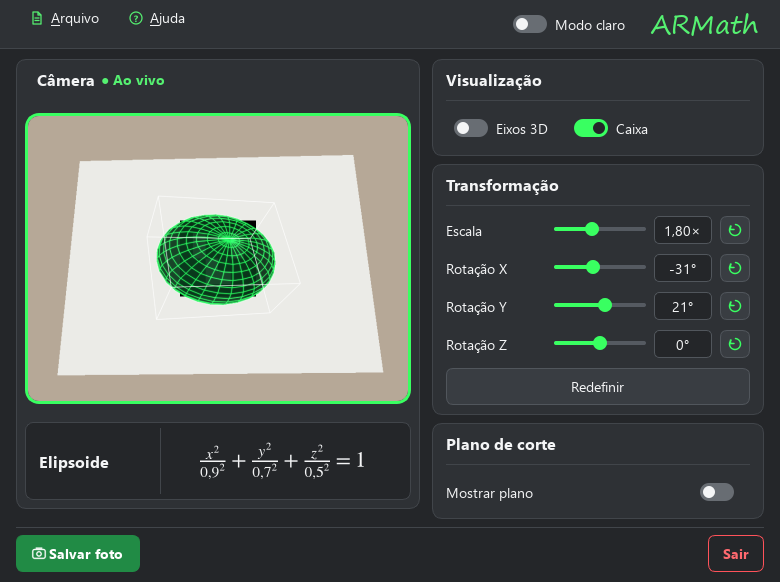
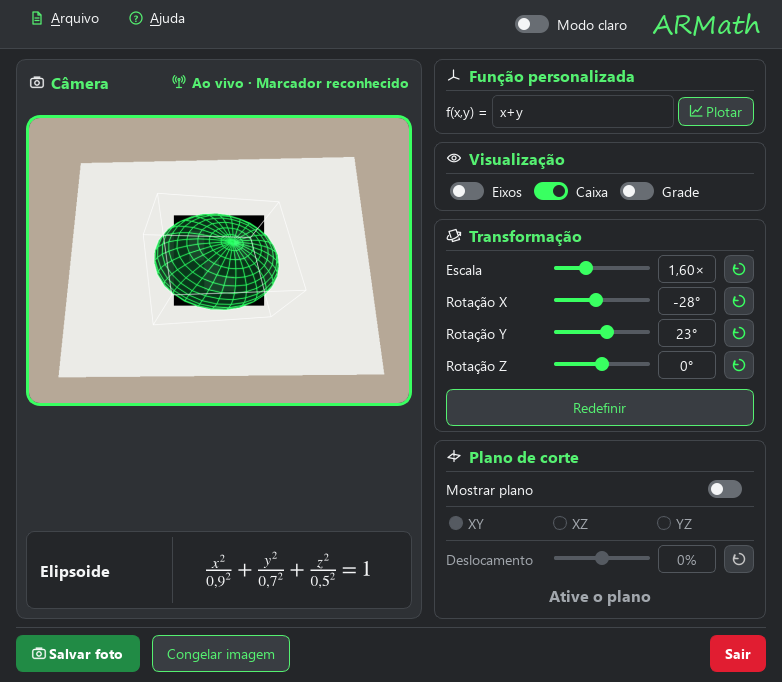
Documenta os recursos atuais do ARMath 2.0

diff --git a/ARMAth_2.0/README.md b/ARMAth_2.0/README.md
@@ -1,80 +1,107 @@
 # ARMath 2.0
 
-O ARMath 2.0 usa marcadores ArUco para projetar superfícies matemáticas sobre o vídeo da câmera. Os nove marcadores da versão 1.0 também funcionam nesta edição.
+O **ARMath** é um aplicativo de realidade aumentada para o ensino de **Cálculo III**, criado pelo Prof. Izaias Neri. A webcam reconhece um marcador ArUco e projeta uma superfície matemática sobre o vídeo. O nome e a equação da superfície aparecem abaixo da prévia.
 
-## O que mudou na versão 2.0
+## Como começar
 
-A câmera e a equação ficam à esquerda. Na coluna lateral, o painel **Visualização** reúne **Eixos 3D** e **Caixa**. O painel **Transformação** reúne escala, rotação e redefinição dos ajustes. Em **Plano de corte**, é possível deslocar um plano vermelho com malha amarela e observar a interseção em branco.
-
-O seletor de tema fica ao lado da marca **ARMath**, no canto superior direito. O menu **Ajuda** reúne o guia rápido, a pasta de marcadores, o [manual em PDF](docs/Manual_ARMath.pdf), o GitHub do projeto e a janela **Sobre o ARMath**.
-
-## Telas do aplicativo
-
-As capturas mostram a interface do ARMath 2.0 com quadros simulados da câmera.
-
-**Painel Visualização com a caixa ativada**
-
-![Elipsoide delimitado por uma caixa de arestas brancas no ARMath 2.0](docs/imagens/armath-2-caixa.png)
-
-**Modo escuro com plano de corte e interseção em branco**
-
-![ARMath 2.0 no modo escuro, com a sela cortada por um plano vermelho e os controles à direita](docs/imagens/armath-2-escuro.png)
-
-**Modo claro com os eixos 3D ativados**
-
-![ARMath 2.0 no modo claro, com um toro rotacionado e seus eixos 3D](docs/imagens/armath-2-claro.png)
-
-**Janela Sobre**
-
-![Janela Sobre do ARMath 2.0 com o logotipo verde, a descrição e os créditos](docs/imagens/armath-2-sobre.png)
-
-## Menus
-
-### Arquivo
-
-![Menu Arquivo aberto no ARMath 2.0](docs/imagens/armath-2-menu-arquivo.png)
-
-| Item | O que faz |
-| --- | --- |
-| **Salvar foto** (`Ctrl+S`) | Salva em PNG o quadro atual da câmera com a visualização da superfície. |
-| **Eixos 3D** (`Ctrl+E`) | Mostra ou oculta os eixos X, Y e Z. É o mesmo controle disponível no painel **Visualização**. |
-| **Reiniciar câmera** | Tenta reconectar a webcam. A opção aparece quando a câmera está indisponível. |
-| **Sair** (`Ctrl+Q`) | Fecha o aplicativo. |
-
-### Ajuda
-
-![Menu Ajuda aberto no ARMath 2.0](docs/imagens/armath-2-menu-ajuda.png)
-
-| Item | O que faz |
-| --- | --- |
-| **Como começar** | Mostra três passos para conectar a webcam, posicionar um marcador e explorar a primeira superfície. |
-| **Abrir pasta de marcadores** | Abre a pasta com os PNGs dos marcadores ArUco, que podem ser impressos ou exibidos em outro dispositivo. |
-| **Manual do usuário** | Abre o [manual em PDF](docs/Manual_ARMath.pdf) com instruções e marcadores para imprimir. |
-| **GitHub do projeto** | Abre a [página do ARMath 2.0 no GitHub](https://github.com/izaiasneri/ARmath/tree/main/ARMAth_2.0) no navegador. |
-| **Sobre o ARMath** | Exibe a versão, a descrição e os créditos do aplicativo. |
-
-## Como executar
-
-Na pasta `ARMAth_2.0`, instale as dependências, caso ainda não estejam instaladas, e execute o aplicativo.
+Na pasta `ARMAth_2.0`, instale as dependências e abra o aplicativo:
 
 ```powershell
 python -m pip install -r requirements.txt
 python armath.py
 ```
 
-Os PNGs para imprimir estão na pasta `marcadores`. Para gerar mais cópias, execute `python armath.py --gerar-marcadores marcadores`.
+Mostre um [marcador ArUco](marcadores) inteiro à webcam, com a margem branca visível. Você pode imprimir o PNG ou exibi-lo em outro dispositivo. Os marcadores **0 a 8** da versão 1.0 continuam funcionando. O [marcador 9](marcadores/marcador_9.png) é reservado para a função personalizada.
 
-## Controles
+Para gerar os arquivos PNG novamente, execute `python armath.py --gerar-marcadores marcadores`.
 
-- **Escala** ajusta o tamanho da superfície de **1× a 3×**, com valor inicial de **1×**.
-- **Rotação X, Y e Z** gira a malha em torno do centro do marcador. Cada controle vai de **−180° a 180°**.
-- **Eixos 3D** mostra os eixos X, Y e Z, que giram junto com a superfície.
-- **Caixa** mostra as arestas brancas de uma caixa retangular que delimita a superfície. A caixa acompanha a escala e a rotação da figura.
-- **Redefinir** volta à escala **1×** e às três rotações em **0°**.
-- O **ícone de seta circular** ao lado de cada valor restaura apenas aquele controle.
-- **Mostrar plano** exibe um plano vermelho preenchido com malha amarela. Escolha um único plano entre **XY**, **XZ** e **YZ**. O contorno branco destaca a interseção quando houver corte.
-- O **deslocamento do plano** começa na origem, no centro do deslizador. As duas pontas do controle levam o plano ao menor e ao maior valor da superfície no eixo perpendicular ao corte. O alcance acompanha a escala da figura. Use a seta circular para voltar à origem.
-- **Modo claro** ativa o tema claro. Com ele ativo, o seletor passa a exibir **Modo escuro**. O aplicativo abre no tema escuro.
-- **Salvar foto** captura o quadro com a superfície no tamanho e na orientação atuais.
+## Telas e funcionalidades
 
-A malha 3D aparece em verde neon sobre o vídeo. O nome e a equação são exibidos abaixo da prévia.
+As imagens abaixo são capturas da interface do aplicativo com quadros simulados da câmera.
+
+### Função personalizada
+
+No painel **Função personalizada**, escreva a expressão depois de **f(x,y) =** e clique em **Plotar** ou pressione **Enter**. Aponte a câmera para o marcador 9 para ver a superfície e a fórmula renderizada abaixo da imagem. A função inicial é `x+y`. Cada expressão válida substitui a anterior durante a sessão. Se houver um erro, a última função válida permanece.
+
+Exemplos: `exp(x+y)`, `x^2-y^2` e `sqrt(x^2+y^2)`. Use `*` para multiplicar. O aplicativo avalia a função em uma malha no domínio ([-1,1] × [-1,1]).
+
+![Função exponencial no marcador 9, com a equação formatada abaixo da câmera](docs/imagens/armath-2-funcao-personalizada.png)
+
+### Visualização e transformação
+
+| Controle | Como funciona |
+| --- | --- |
+| **Eixos** | Mostra os eixos coloridos com as letras X, Y e Z em branco. |
+| **Caixa** | Desenha as arestas brancas da caixa que delimita a superfície. |
+| **Grade** | Mostra três planos de referência translúcidos: XY amarelo, XZ azul e YZ vermelho. As linhas são brancas e tracejadas, e os números indicam coordenadas da superfície. |
+| **Escala** | Ajusta a ampliação de **1× a 3×**. |
+| **Rotação X, Y e Z** | Gira a superfície ao redor do marcador, de **−180° a 180°** em cada eixo. Os elementos de visualização acompanham a rotação. |
+| **Redefinir** | Restaura a escala para **1×** e as rotações para **0°**. As setas circulares dos seletores redefinem cada valor individualmente. |
+
+**Grade e eixos ativados**
+
+![Elipsoide com eixos rotulados e três planos de grade coloridos](docs/imagens/armath-2-grade.png)
+
+**Caixa ativada**
+
+![Elipsoide dentro da caixa de arestas brancas](docs/imagens/armath-2-caixa.png)
+
+### Plano de corte
+
+Ative **Mostrar plano** e selecione **XY**, **XZ** ou **YZ**. As opções e o controle de **Deslocamento** ficam visíveis mesmo quando o plano está desligado. Quando ativo, o painel exibe a coordenada do corte no eixo perpendicular ao plano. A curva de interseção aparece em branco quando há corte.
+
+![Corte da sela com o plano XY e a coordenada Z indicada no painel](docs/imagens/armath-2-escuro.png)
+
+### Congelar imagem e salvar foto
+
+**Congelar imagem** conserva o quadro atual para que você possa girar a superfície, ajustar a escala e explorar os cortes sem segurar o marcador na frente da webcam. Clique em **Retomar vídeo** para voltar à transmissão. **Salvar foto** exporta em PNG o quadro exibido com a sobreposição.
+
+![Imagem congelada com plano de corte visível e botão Retomar vídeo](docs/imagens/armath-2-congelado.png)
+
+### Estado da câmera e recuperação
+
+| Estado | O que aparece |
+| --- | --- |
+| **Conectando** | A câmera está em inicialização. [Ver captura](docs/imagens/armath-2-conectando.png). |
+| **Ao vivo · Aguardando marcador** | A transmissão está ativa. Mostre um marcador com os quatro cantos visíveis. [Ver captura](docs/imagens/armath-2-aguardando-marcador.png). |
+| **Ao vivo · Marcador reconhecido** | A superfície e a equação estão disponíveis para exploração. |
+| **Imagem congelada** | O quadro exibido fica fixo, com os ajustes de visualização disponíveis. |
+| **Indisponível** | Verifique a webcam e as permissões do Windows. Use o botão amarelo **Reiniciar câmera** para tentar novamente. |
+
+![Câmera indisponível com botão amarelo Reiniciar câmera](docs/imagens/armath-2-camera-indisponivel.png)
+
+### Temas claro e escuro
+
+O seletor ao lado da marca ARMath indica o tema que será ativado. O aplicativo abre no tema escuro. Ao mudar para o tema claro, o seletor passa a mostrar **Modo escuro**.
+
+![Tema claro com o toro e seus eixos](docs/imagens/armath-2-claro.png)
+
+## Menus
+
+### Arquivo
+
+![Menu Arquivo aberto com a opção Selecionar câmera](docs/imagens/armath-2-menu-arquivo.png)
+
+| Item | O que faz |
+| --- | --- |
+| **Salvar foto** (`Ctrl+S`) | Salva o quadro exibido em PNG. |
+| **Eixos 3D** (`Ctrl+E`) | Alterna o controle **Eixos** do painel **Visualização**. |
+| **Reiniciar câmera** | Tenta reconectar a webcam. A opção aparece quando a câmera está indisponível. |
+| **Selecionar câmera** | Permite escolher outra webcam pelo índice. **0** é o índice padrão. |
+| **Sair** (`Ctrl+Q`) | Fecha o aplicativo. |
+
+![Janela para escolher o índice da câmera](docs/imagens/armath-2-selecionar-camera.png)
+
+### Ajuda
+
+![Menu Ajuda aberto com os ícones de cada item](docs/imagens/armath-2-menu-ajuda.png)
+
+| Item | O que faz |
+| --- | --- |
+| **Como começar** | Mostra três passos para usar a webcam e reconhecer o primeiro marcador. |
+| **Abrir pasta de marcadores** | Abre a pasta com os PNGs originais. |
+| **Manual do usuário** | Abre o [manual em PDF](docs/Manual_ARMath.pdf), com instruções e marcadores para impressão. |
+| **GitHub do projeto** | Abre a [página do ARMath 2.0 no GitHub](https://github.com/izaiasneri/ARmath/tree/main/ARMAth_2.0). |
+| **Sobre o ARMath** | Exibe a versão e os créditos do aplicativo. |
+
+![Janela Sobre o ARMath 2.0](docs/imagens/armath-2-sobre.png)
